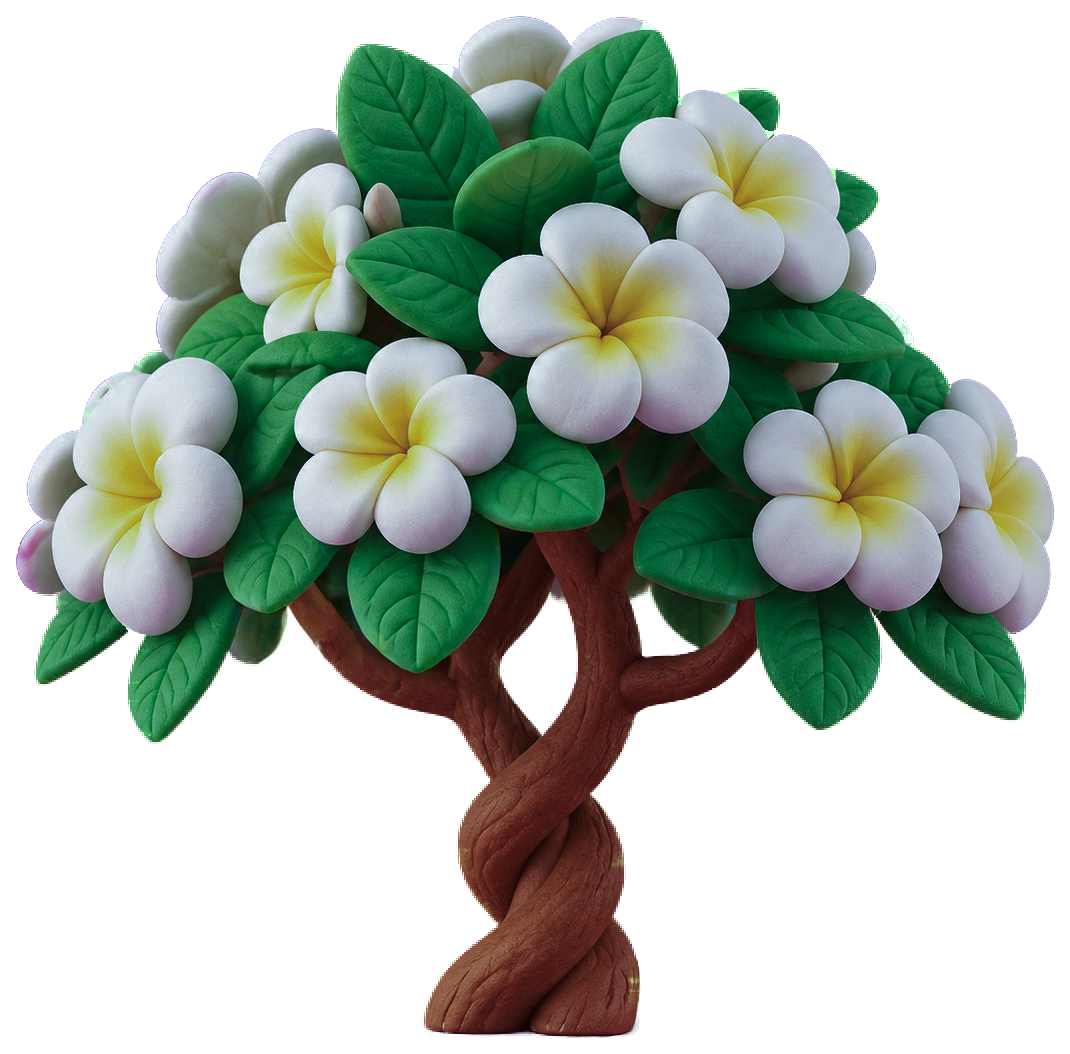
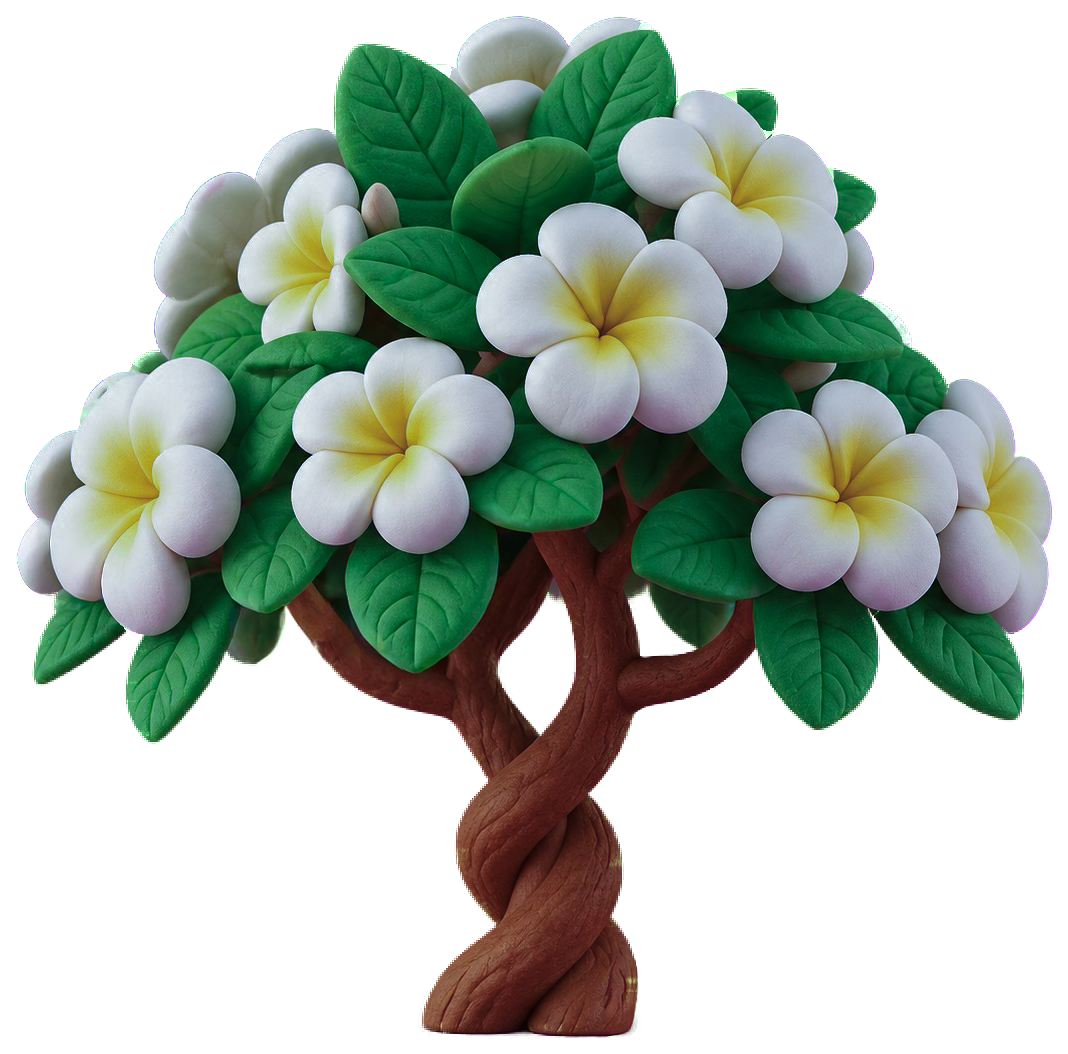
Re-cut frangipanier night from the creator's corrected source
Completes the fix across all three periods -- day, golden hour, and
now night are all cut from marks-free source renders.

Claude-Session: https://claude.ai/code/session_01QJhmBXxG8bP3KG6H3AZ1rh

diff --git a/mobile/README.md b/mobile/README.md
@@ -776,11 +776,9 @@ out not to be a cutout defect at all -- a good amount of time went
 into treating it like the alpha-estimation bug above (checking core
 coverage and edge thickness right at that flower) before the creator
 caught their own mistake and clarified it was a mark on their day
-source image itself, then sent a corrected day render. Re-cut the day variant
-against the new source, then the golden-hour one once the creator sent
-its own corrected render too; night still carries whatever the
-original render had there until (if) the creator sends a matching fix
-for it. Worth remembering: a localized, oddly-
+source image itself, then sent a corrected day render. Re-cut all three variants once the
+creator sent a corrected render for each in turn (day, then golden
+hour, then night) -- all clean now. Worth remembering: a localized, oddly-
 shaped defect isolated to one small feature is at least as likely to be
 bad source content as a pipeline bug, especially once the same
 pipeline has already proven clean everywhere else in the same image.
